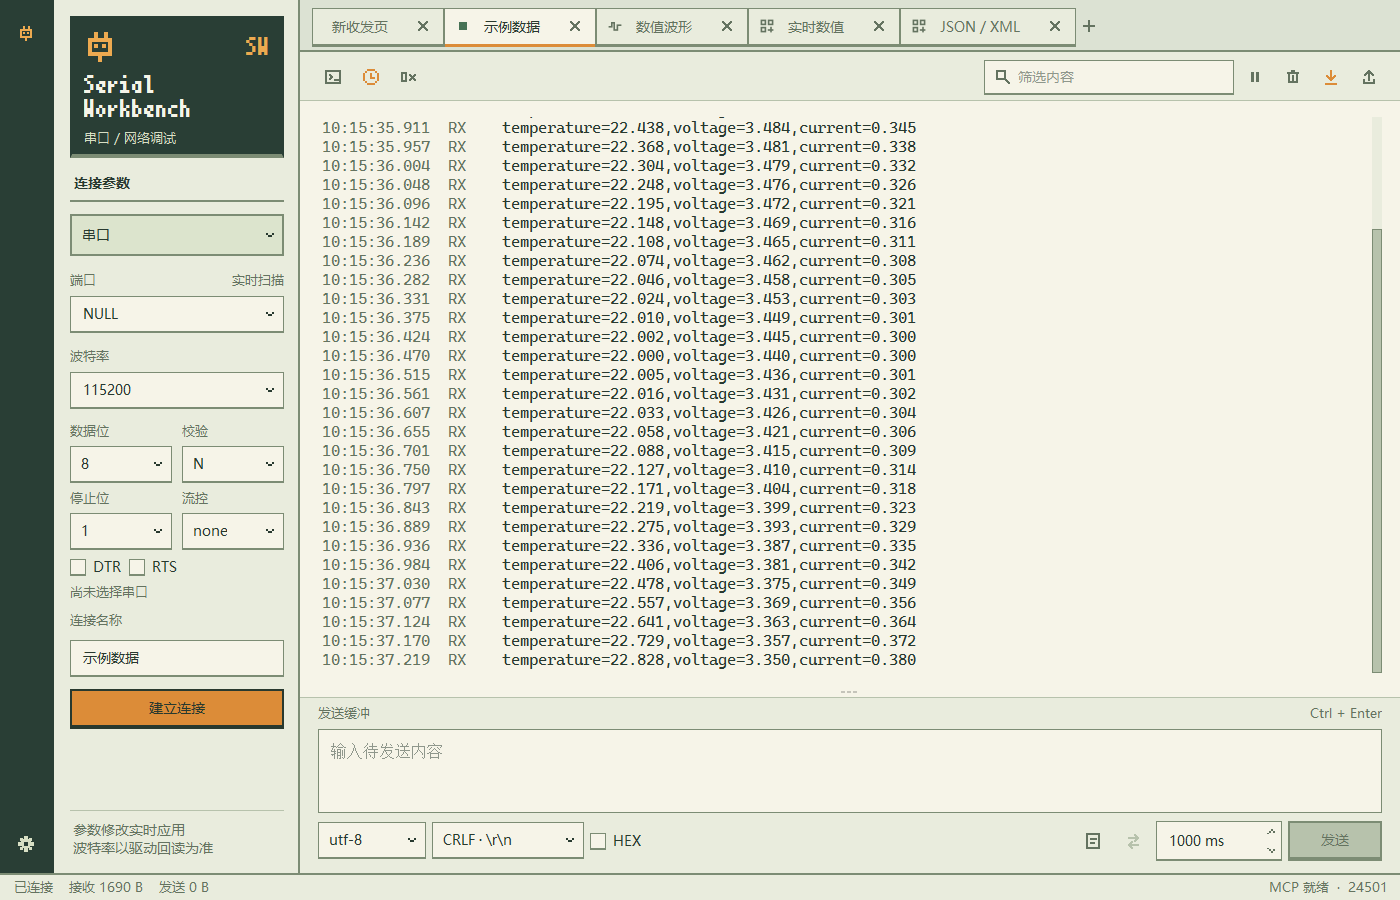
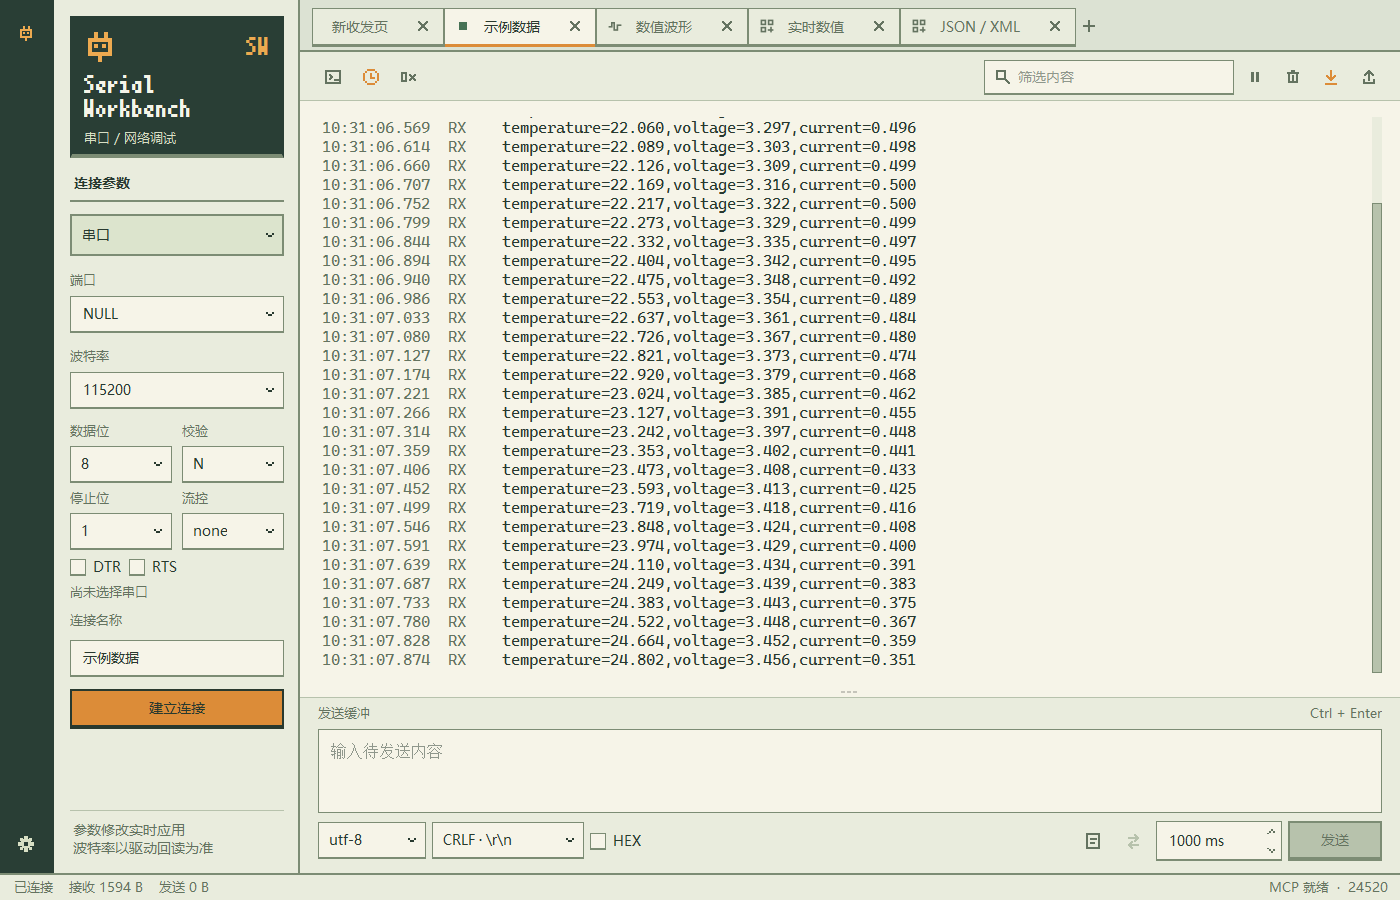
feat(ui): show serial device details without scan status label

diff --git a/src/ui/window.cpp b/src/ui/window.cpp
@@ -73,6 +73,113 @@ static int paneIndex(ConnectionBar *bar, Pane *pane)
     return -1;
 }
 
+static QString usbIdentity(const QJsonObject &metadata)
+{
+    QStringList identifiers;
+    for (const auto &key : {"vendor_id", "product_id"})
+    {
+        if (!metadata[key].isDouble())
+        {
+            continue;
+        }
+        const auto value = QString::number(metadata[key].toInt(), 16).rightJustified(4, '0').toUpper();
+        identifiers.append(QString(key == QString("vendor_id") ? "VID %1" : "PID %1").arg(value));
+    }
+    return identifiers.join(" · ");
+}
+
+static QString serialNumber(const QJsonObject &metadata)
+{
+    return metadata["serial_number"].toString(metadata["hwid"].toString());
+}
+
+static QString portDescription(const QJsonObject &metadata, bool includeLocation = false)
+{
+    QStringList lines;
+    if (!metadata["description"].toString().isEmpty())
+    {
+        lines.append(metadata["description"].toString());
+    }
+    if (!metadata["manufacturer"].toString().isEmpty())
+    {
+        lines.append("制造商：" + metadata["manufacturer"].toString());
+    }
+    const auto usb = usbIdentity(metadata);
+    if (!usb.isEmpty())
+    {
+        lines.append(usb);
+    }
+    const auto serial = serialNumber(metadata);
+    if (!serial.isEmpty())
+    {
+        lines.append("序列号：" + serial);
+    }
+    if (includeLocation && !metadata["system_location"].toString().isEmpty())
+    {
+        lines.append("设备路径：" + metadata["system_location"].toString());
+    }
+    return lines.join('\n');
+}
+
+class PortDelegate : public QStyledItemDelegate
+{
+public:
+    explicit PortDelegate(Window *owner) : QStyledItemDelegate(owner), window(owner) {}
+    Window *window;
+
+    QSize sizeHint(const QStyleOptionViewItem &option, const QModelIndex &index) const override
+    {
+        const bool device = !index.data(Qt::UserRole + 2).toJsonObject().isEmpty();
+        return QSize(430, option.fontMetrics.height() * (device ? 2 : 1) + 18);
+    }
+
+    void paint(QPainter *painter, const QStyleOptionViewItem &option, const QModelIndex &index) const override
+    {
+        const auto metadata = index.data(Qt::UserRole + 2).toJsonObject();
+        if (metadata.isEmpty())
+        {
+            QStyledItemDelegate::paint(painter, option, index);
+            return;
+        }
+        QStyleOptionViewItem background(option);
+        initStyleOption(&background, index);
+        background.text.clear();
+        auto style = option.widget ? option.widget->style() : QApplication::style();
+        style->drawControl(QStyle::CE_ItemViewItem, &background, painter, option.widget);
+
+        QString title = metadata["port"].toString();
+        if (!metadata["description"].toString().isEmpty())
+        {
+            title += " · " + metadata["description"].toString();
+        }
+        QStringList details;
+        if (!metadata["manufacturer"].toString().isEmpty())
+        {
+            details.append(metadata["manufacturer"].toString());
+        }
+        if (!usbIdentity(metadata).isEmpty())
+        {
+            details.append(usbIdentity(metadata));
+        }
+        if (!serialNumber(metadata).isEmpty())
+        {
+            details.append("SN " + serialNumber(metadata));
+        }
+        const auto area = option.rect.adjusted(10, 7, -10, -7);
+        const int lineHeight = option.fontMetrics.height();
+        painter->save();
+        painter->setClipRect(option.rect);
+        painter->setFont(option.font);
+        painter->setPen(window->theme.text);
+        painter->drawText(area.x(), area.y() + option.fontMetrics.ascent(),
+            option.fontMetrics.elidedText(title, Qt::ElideRight, area.width()));
+        painter->setPen(window->theme.muted);
+        painter->drawText(area.x(), area.y() + lineHeight + option.fontMetrics.ascent(),
+            option.fontMetrics.elidedText(details.isEmpty() ? "串口设备" : details.join(" · "), Qt::ElideRight, area.width()));
+        painter->restore();
+    }
+};
+
 Instrument::Instrument(const QString &type, QWidget *parent) : QWidget(parent), kind(type)
 {
     setObjectName("page");
@@ -1063,15 +1170,11 @@ Window::Window(Engine *owner, McpServer *service, const QString &path, Window *m
     auto serialBody = new QVBoxLayout(serialPanel);
     serialBody->setContentsMargins(0, 4, 0, 0);
     serialBody->setSpacing(8);
-    auto portLabel = horizontal();
-    portLabel->addWidget(label("端口", "muted"));
-    portLabel->addStretch();
-    auto scanning = label("实时扫描", "muted");
-    scanning->setToolTip("自动检测设备插拔，无需手动刷新；不可用的端口会自动清除。");
-    portLabel->addWidget(scanning);
-    serialBody->addLayout(portLabel);
+    serialBody->addWidget(label("端口", "muted"));
     port = combo({"NULL"}, "NULL", true);
     port->setObjectName("serialPort");
+    port->setItemDelegate(new PortDelegate(this));
+    port->view()->setMinimumWidth(430);
     port->setInsertPolicy(QComboBox::NoInsert);
     port->setCompleter(nullptr);
     port->lineEdit()->setReadOnly(true);
@@ -1080,6 +1183,13 @@ Window::Window(Engine *owner, McpServer *service, const QString &path, Window *m
     port->lineEdit()->setCursor(Qt::ArrowCursor);
     port->setFixedHeight(38);
     serialBody->addWidget(port);
+    portDetails = label("", "portDetails");
+    portDetails->setTextFormat(Qt::PlainText);
+    portDetails->setWordWrap(true);
+    portDetails->setSizePolicy(QSizePolicy::Ignored, QSizePolicy::Preferred);
+    portDetails->setForegroundRole(QPalette::PlaceholderText);
+    portDetails->hide();
+    serialBody->addWidget(portDetails);
     serialBody->addSpacing(7);
     serialBody->addWidget(label("波特率", "muted"));
     baud = combo({"1200", "2400", "4800", "9600", "19200", "38400", "57600", "115200", "230400", "460800", "921600", "1000000", "2000000"}, "115200", true);
@@ -1690,7 +1800,8 @@ void Window::refreshPorts()
             const auto item = value.toObject();
             const int index = port->findText(item["port"].toString());
             if (index <= 0) { continue; }
-            port->setItemData(index, item["description"].toString(), Qt::ToolTipRole);
+            port->setItemData(index, item["port"].toString() + "\n" + portDescription(item, true), Qt::ToolTipRole);
+            port->setItemData(index, item, Qt::UserRole + 2);
             port->setItemData(index, item["usb_serial_jtag"].toBool(), Qt::UserRole + 1);
         }
     }
@@ -1953,15 +2064,42 @@ void Window::updateStatus()
             ? (active->sourceKey.isEmpty() ? "控件页面    请选择数据来源" : "控件页面    等待数据来源连接")
             : "尚未连接    选择端口开始接收");
     }
-    QString serialText = port->currentText() == "NULL" ? "尚未选择串口"
-        : channel && same && channel->state == "reconnecting" ? QString("%1 已断开，等待设备恢复").arg(channel->config.port)
-        : channel && same && channel->appliedBaud ? QString("驱动已确认 %1 bps").arg(channel->appliedBaud)
-        : port->itemData(port->currentIndex(), Qt::ToolTipRole).toString();
-    if (port->currentText() == port->itemText(port->currentIndex()) && port->itemData(port->currentIndex(), Qt::UserRole + 1).toBool())
+    const auto selectedPort = port->currentText();
+    auto metadata = port->itemData(port->findText(selectedPort, Qt::MatchFixedString), Qt::UserRole + 2).toJsonObject();
+    if (metadata["port"].toString().compare(selectedPort, Qt::CaseInsensitive) != 0)
     {
-        serialText += "\nUSB Serial/JTAG · 速率由 USB 决定";
+        metadata = {};
+    }
+    const bool serialConnection = channel && same && !active->isInstrument() && channel->config.kind == "serial";
+    if (serialConnection && !metadata.isEmpty())
+    {
+        active->portMetadata = metadata;
+    }
+    else if (serialConnection && active->portMetadata["port"].toString().compare(selectedPort, Qt::CaseInsensitive) == 0)
+    {
+        metadata = active->portMetadata;
+    }
+    const auto details = portDescription(metadata);
+    portDetails->setText(details);
+    portDetails->setVisible(!details.isEmpty());
+    const auto tooltip = selectedPort == "NULL" ? "选择串口；设备插拔时列表会自动更新"
+        : selectedPort + "\n" + portDescription(metadata, true);
+    port->setToolTip(tooltip);
+    portDetails->setToolTip(tooltip);
+
+    QString serialText = selectedPort == "NULL" ? "尚未选择串口"
+        : serialConnection && channel->state == "reconnecting" ? QString("%1 已断开，等待设备恢复").arg(channel->config.port)
+        : serialConnection && channel->appliedBaud ? QString("驱动已确认 %1 bps").arg(channel->appliedBaud) : QString();
+    if (metadata["usb_serial_jtag"].toBool())
+    {
+        if (!serialText.isEmpty())
+        {
+            serialText += '\n';
+        }
+        serialText += "USB Serial/JTAG · 速率由 USB 决定";
     }
     serialInfo->setText(serialText);
+    serialInfo->setVisible(!serialText.isEmpty());
     mcpStatus->setText(mcp->isListening() ? QString("MCP 就绪  ·  %1").arg(mcp->serverPort()) : "MCP 离线");
     mcpStatus->setToolTip(mcp->error.isEmpty() ? mcp->url() : mcp->error);
 }

diff --git a/tests/native/tests.cpp b/tests/native/tests.cpp
@@ -374,6 +374,7 @@ private slots:
         QTRY_VERIFY(window.port->findText("COM45") >= 0);
         QCOMPARE(window.port->currentText(), "NULL");
         QCOMPARE(window.active->draft.port, QString("NULL"));
+        QVERIFY(window.portDetails->isHidden());
         QVERIFY(window.port->findText("COM44") < 0);
         window.port->setCurrentText("loop://");
         available = {};
@@ -414,11 +415,27 @@ private slots:
         QSignalSpy reset(window.port->model(), &QAbstractItemModel::modelReset);
         QSignalSpy inserted(window.port->model(), &QAbstractItemModel::rowsInserted);
         QSignalSpy removed(window.port->model(), &QAbstractItemModel::rowsRemoved);
-        available[0] = QJsonObject {{"port", "COM8"}, {"description", "Updated device"}};
+        available[0] = QJsonObject {
+            {"port", "COM8"}, {"description", "Updated device"}, {"manufacturer", "Silicon Labs"},
+            {"vendor_id", 0x10c4}, {"product_id", 0xea60}, {"serial_number", "UART1234"},
+            {"system_location", "test-device-path"}
+        };
         window.refreshPorts();
         QCOMPARE(window.port->currentText(), "COM8");
         QCOMPARE(window.port->lineEdit()->selectedText(), "OM");
-        QCOMPARE(window.port->itemData(1, Qt::ToolTipRole).toString(), QString("Updated device"));
+        const auto tooltip = window.port->itemData(1, Qt::ToolTipRole).toString();
+        QVERIFY(tooltip.contains("Updated device"));
+        QVERIFY(tooltip.contains("Silicon Labs"));
+        QVERIFY(tooltip.contains("VID 10C4 · PID EA60"));
+        QVERIFY(tooltip.contains("UART1234"));
+        QVERIFY(tooltip.contains("test-device-path"));
+        QVERIFY(window.portDetails->text().contains("VID 10C4 · PID EA60"));
+        QVERIFY(window.portDetails->text().contains("UART1234"));
+        QVERIFY(window.portDetails->isVisible());
+        for (auto text : window.findChildren<QLabel *>())
+        {
+            QVERIFY(text->text() != "实时扫描");
+        }
         QCOMPARE(reset.count(), 0);
         QCOMPARE(inserted.count(), 0);
         QCOMPARE(removed.count(), 0);
@@ -474,7 +491,7 @@ private slots:
         QCOMPARE(window.port->currentText(), "NULL");
 
         // A lost device must not disable the existing connection's stop action.
-        available.append(QJsonObject {{"port", "COM9"}});
+        available.append(QJsonObject {{"port", "COM9"}, {"description", "Retained USB UART"}, {"hwid", "OLD-SERIAL"}});
         window.refreshPorts();
         sw::Config loopback;
         loopback.port = "loop://";
@@ -488,6 +505,8 @@ private slots:
         QCOMPARE(window.port->currentText(), "COM9");
         QCOMPARE(window.port->findText("COM9"), -1);
         QCOMPARE(window.connectButton->text(), QString("停止重连"));
+        QVERIFY(window.portDetails->text().contains("Retained USB UART"));
+        QVERIFY(window.portDetails->text().contains("OLD-SERIAL"));
         QCOMPARE(channel->state, QString("reconnecting"));
         QVERIFY(channel->retryTimer.isActive());
         QVERIFY(channel->error.contains("COM9"));

diff --git a/src/core/core.cpp b/src/core/core.cpp
@@ -221,6 +221,9 @@ QJsonArray Engine::ports()
     {
         result.append(QJsonObject {{"port", port.portName()}, {"description", port.description()},
             {"hwid", port.serialNumber()}, {"manufacturer", port.manufacturer()},
+            {"serial_number", port.serialNumber()}, {"system_location", port.systemLocation()},
+            {"vendor_id", port.hasVendorIdentifier() ? QJsonValue(port.vendorIdentifier()) : QJsonValue()},
+            {"product_id", port.hasProductIdentifier() ? QJsonValue(port.productIdentifier()) : QJsonValue()},
             {"usb_serial_jtag", port.vendorIdentifier() == 0x303a && port.productIdentifier() == 0x1001}});
     }
     return result;

diff --git a/src/ui/window.h b/src/ui/window.h
@@ -35,6 +35,7 @@ public:
     Window *window;
     QPointer<Channel> channel;
     Config draft;
+    QJsonObject portMetadata;
     qint64 cursor = 0;
     qint64 viewStart = 0;
     Instrument *instrument = nullptr;
@@ -133,6 +134,7 @@ public:
     QLabel *remoteLabel;
     QLabel *localLabel;
     QLabel *serialInfo;
+    QLabel *portDetails;
     QPushButton *connectButton;
     QLabel *status;
     QLabel *mcpStatus;

diff --git a/docs/live-ports.md b/docs/live-ports.md
@@ -1,8 +1,8 @@
-# 实时端口发现（0.10.4）
+# 实时端口发现（0.11.1）
 
-端口标签显示「实时扫描」，不再提供手动刷新按钮。Windows 设备变化会触发扫描，并每 500 ms 补查一次。扫描仅枚举设备，不打开端口。
+端口标签只显示「端口」，自动扫描无需额外状态文字或刷新按钮。Windows 设备变化会触发扫描，并每 500 ms 补查一次。扫描仅枚举设备，不打开端口。
 
-列表仅增删发生变化的行；下拉菜单展开时仍更新，不清空重建整个列表。端口说明与 USB Serial/JTAG 提示同步更新。
+列表仅增删发生变化的行；下拉菜单展开时仍更新，不清空重建整个列表。下拉项显示 COM 名称、设备描述和硬件标识；选中后在端口下方显示设备描述、制造商、USB VID/PID 和序列号。悬停可查看完整设备路径；设备未提供的字段不显示。信息随扫描同步更新，正在等待恢复的连接保留最近识别的信息。USB Serial/JTAG 提示与驱动波特率状态单独显示。
 
 尚未连接的草稿中，选中的 COM 端口消失后，输入字段回到 NULL，草稿同步更新。已建立的串口连接断开后保留原 COM 名称，按钮显示「停止重连」，状态显示「等待设备恢复」；切换标签和独立窗口后仍保留。下拉列表只列出当前在线设备，保留的 COM 名称不冒充在线端口。插入新设备会加入列表，不会自动建立新连接或擅自选择它。
 
@@ -18,7 +18,9 @@
 - 标签切换保留正在恢复的 COM；无读写错误时主动进入设备恢复状态，原连接仍可手动停止。
 - 连续失败重试不新增日志；恢复后再次断开新增一次提示；手动停止后不再重试，历史记录不受影响。
 - 图标悬停及键盘焦点只改变图标颜色，鼠标反馈仅轻微位移和缩放；移除边框与背景高亮，避免标签关闭按钮外溢。
-- Release 编译，离屏与 Windows 桌面各 17 项测试通过；插拔状态由可控设备快照模拟，不打开真实硬件。
+- Release 编译，离屏与 Windows 桌面各 21 项测试通过；插拔状态由可控设备快照模拟，不打开真实硬件。
 - 打包版 HTTP / STDIO 验证通过；真实 Windows 启动时，已不存在的 COM8 设置清除为 NULL。
 
-![实时扫描界面](live-ports.png)
+图示使用模拟端口元数据，展示设备说明和硬件标识。
+
+![端口设备详情](live-ports.png)

diff --git a/README.md b/README.md
@@ -2,7 +2,7 @@
 
 一个面向嵌入式开发的 Windows 串口与网络调试助手。人在界面查看数据，Codex、Claude、OpenCode 等 AI 通过 MCP 同时读取同一份数据，无需再次打开串口。
 
-当前版本：0.11.0，Qt 6 / C++17 原生应用。桌面程序和 STDIO 桥均不依赖 Python 运行时。
+当前版本：0.11.1，Qt 6 / C++17 原生应用。桌面程序和 STDIO 桥均不依赖 Python 运行时。
 
 ![像素掌机主题工作台](docs/pixel-workspace.png)
 
@@ -14,7 +14,7 @@
 
 双击根目录 `start.bat` 或 `scripts/start.bat` 启动原生版；也可直接运行 `dist/SerialWorkbenchNative/SerialWorkbench.exe`。
 
-分发时复制整个 `SerialWorkbenchNative` 文件夹，保留 Qt DLL 和插件目录。`SerialWorkbenchMCP.exe` 是原生 STDIO 桥接程序。首次启动默认端口为 `NULL`，不会自动连接设备。
+分发时复制整个 `SerialWorkbenchNative` 文件夹，保留 Qt DLL 和插件目录。`SerialWorkbenchMCP.exe` 是原生 STDIO 桥接程序。首次启动默认端口为 `NULL`，不会自动连接设备。端口自动检测插拔，下拉列表显示 COM 名称与设备描述；选中后显示制造商、USB VID/PID 和序列号，悬停可查看设备路径。设备未提供的信息自动省略。
 
 ```powershell
 # 打开内置示例信号
@@ -230,7 +230,7 @@ $env:MINGW_BIN = 'D:/lib/Qt/Tools/mingw1310_64/bin'
 .\scripts\build.ps1
 
 # 打包后的 HTTP / STDIO 集成测试，需要 Python MCP SDK
-.\.venv\Scripts\python.exe tests/integration/smoke_native.py --expected-version 0.11.0
+.\.venv\Scripts\python.exe tests/integration/smoke_native.py --expected-version 0.11.1
 ```
 
 测试覆盖独立读取与分页、真实 TCP/UDP socket、软件串口回环及重配置、UTF-8/GBK 分片解析、ANSI 颜色与终端、连接标签和布局、设置恢复、MCP HTTP/STDIO、权限、非阻塞等待和错误参数。实际 COM 硬件、USB 设备的实际线速及各 AI 客户端的完整对话需要在对应环境验证。

diff --git a/docs/project-structure.md b/docs/project-structure.md
@@ -69,7 +69,7 @@ cmake --install build/custom --prefix dist/install
 .\scripts\build.ps1
 # 工具不在 PATH 时可指定 -CMake / -Ninja；可选 -Jobs / -BuildDir / -PackageDir
 # 只编译测试：-SkipPackage；仅构建生产目标：-SkipTests
-.\.venv\Scripts\python.exe tests/integration/smoke_native.py --expected-version 0.11.0
+.\.venv\Scripts\python.exe tests/integration/smoke_native.py --expected-version 0.11.1
 ```
 
 脚本可从任何工作目录调用，结束时恢复原工作目录和 PATH。替换分发包前会检查其中的程序是否仍运行。
